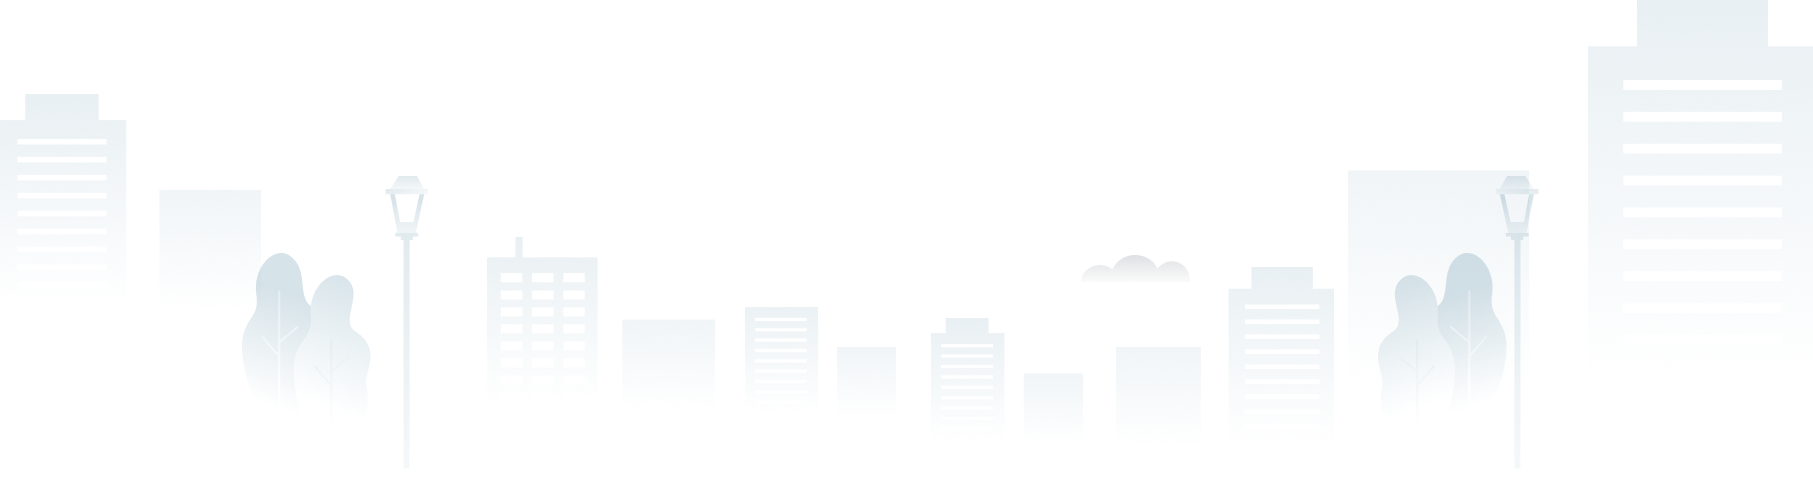
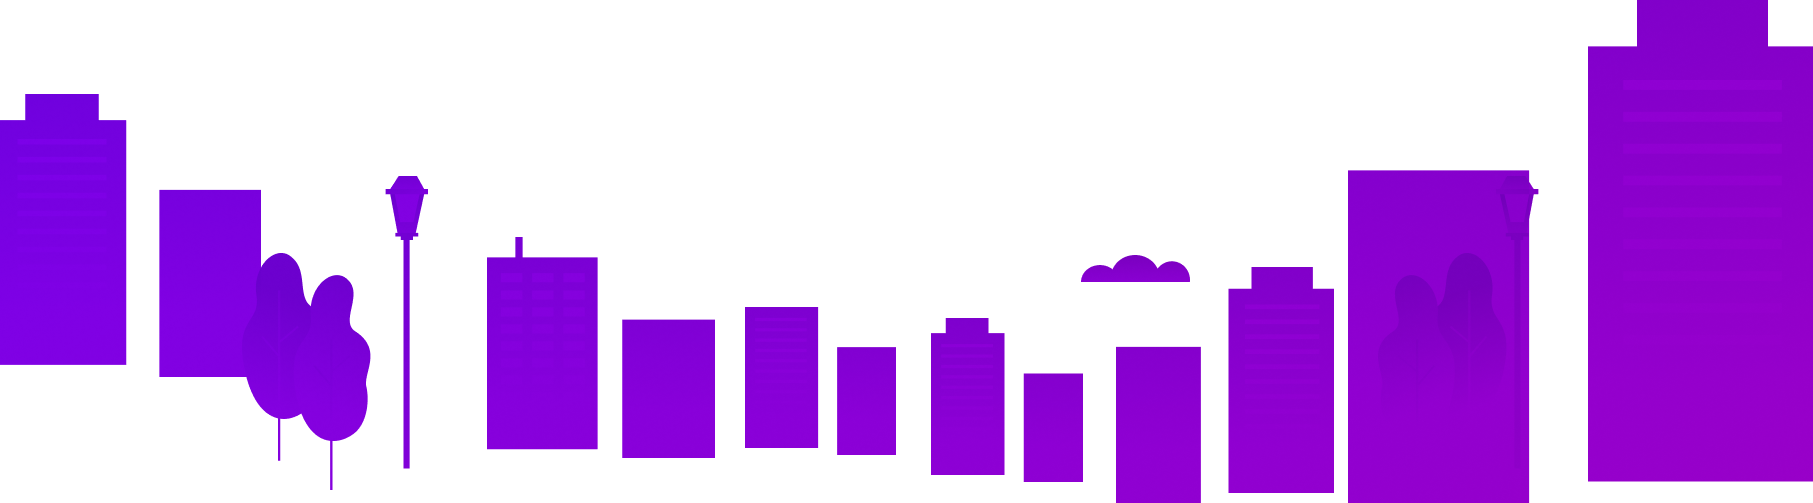
inicio ajustes finos

diff --git a/Huggy Site/index.html b/Huggy Site/index.html
@@ -25,7 +25,7 @@
                 <div class="topo-container container">
                     <div class="menu-topo">
                         <div class="huggy-brand">
-                            <img class="brand-topo" src="assets/images/huggy-topo.png" alt="destque-img" />
+                            <img class="brand-topo" src="assets/images/huggy-topo.svg" alt="destque-img" />
                         </div>
                         <div class="menu-itens">
                             <div class="menu-itens">
@@ -51,7 +51,6 @@
                     </div>
                 </div>
             </div>
-            <!-- <div class="topo-3"></div> -->
             <img class="topo-banco" src="assets/images/topo-banco.svg" alt="destque-img" />
             <img class="topo-bicicleta" src="assets/images/topo-bicicleta.svg" alt="destque-img" />
             <img class="topo-fone" src="assets/images/topo-fone.svg" alt="destque-img" />
@@ -60,6 +59,7 @@
             <img class="topo-mulher-centro" src="assets/images/topo-mulher-centro.svg" alt="destque-img" />
             <img class="topo-selfie" src="assets/images/topo-selfie.svg" alt="destque-img" />
             <img class="topo-maos" src="assets/images/topo-maos.svg" alt="destque-img" />
+
         </section>
         <section class="conteudo">
             <div class="conteudo-container container">
@@ -237,7 +237,7 @@
                 <div class="rodape-superior">
                     <div class="rodape-info">
                         <div class="rodape-brand">
-                            <img class="rodape-brand-img" src="assets/images/huggy-logo.png" alt="huggy" />
+                            <img class="rodape-brand-img" src="assets/images/huggy-logo.svg" alt="huggy" />
                         </div>
                         <div class="rodape-info-coluna">
                             <div class="info-coluna-titulo">Company</div>

diff --git a/Huggy Site/assets/css/style.css b/Huggy Site/assets/css/style.css
@@ -17,8 +17,8 @@
 /* topo */
 
 .topo{
-    background: linear-gradient(to right, #7301F1 , #A300BB);
-    height: 970px;
+    background: url("../images/topo-bg.jpg") center no-repeat;
+    height: 940px;
     position: relative;
 }
 
@@ -30,11 +30,9 @@
 
 .topo-3{
     width: 100vw;
-    height: 970px;
+    height: 940px;
     background: url("../images/cidade.png") center no-repeat;
     position: absolute;
-    top: -70px;
-    opacity: 0.3;
 }
 
 .menu-topo{
